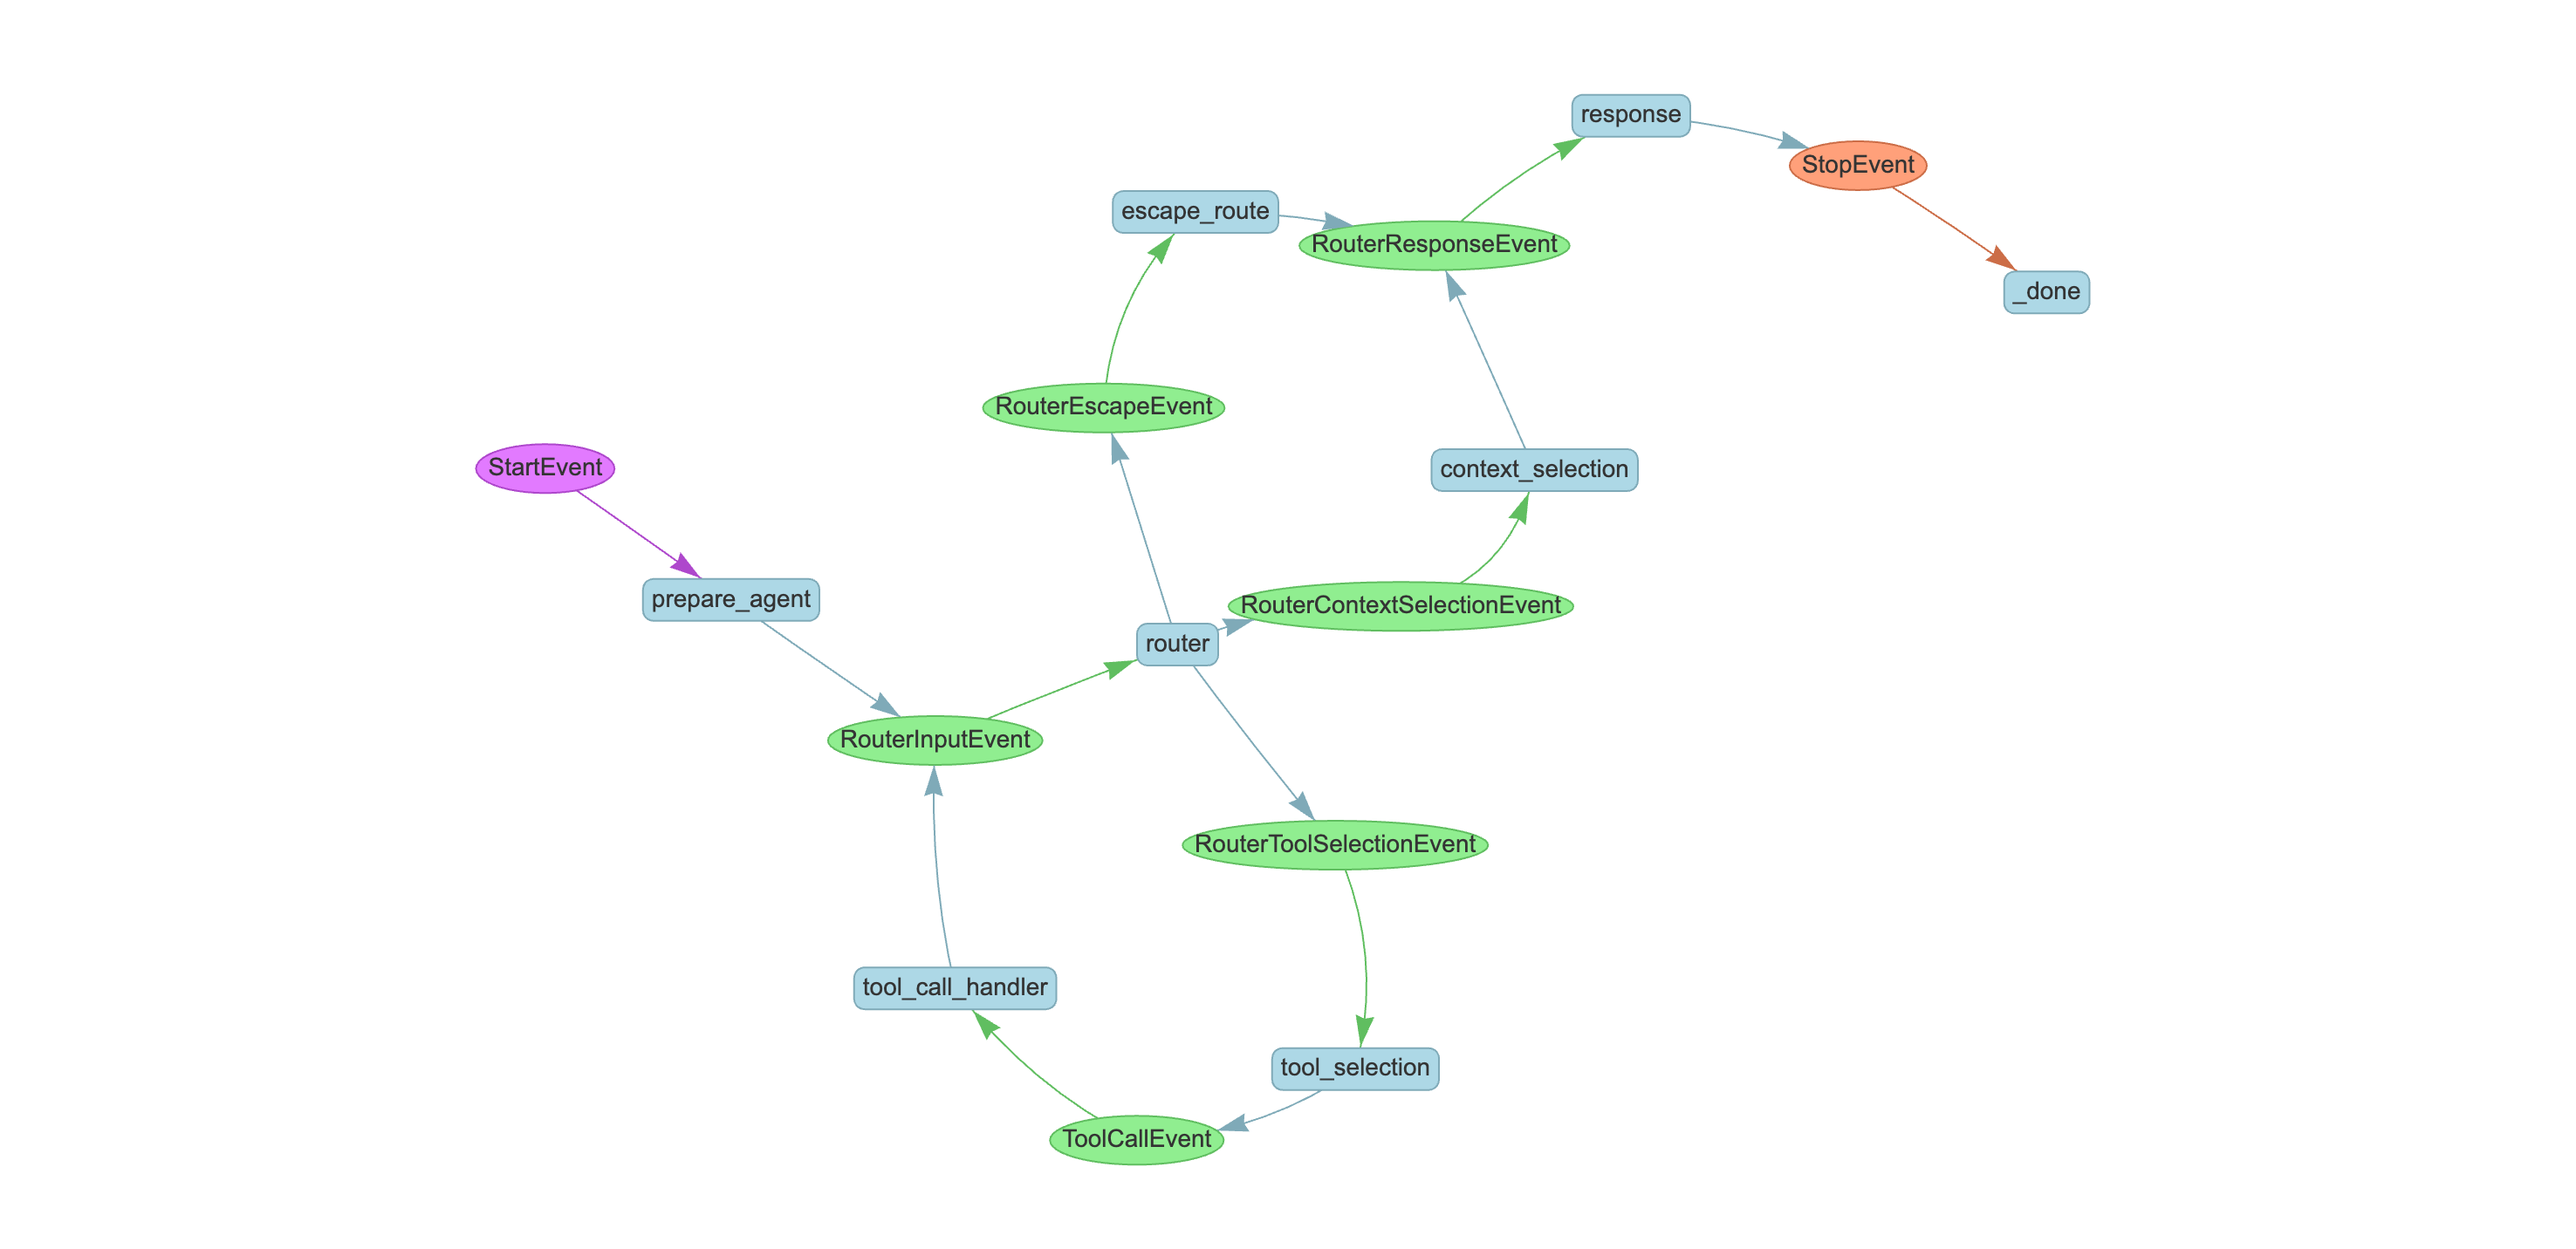
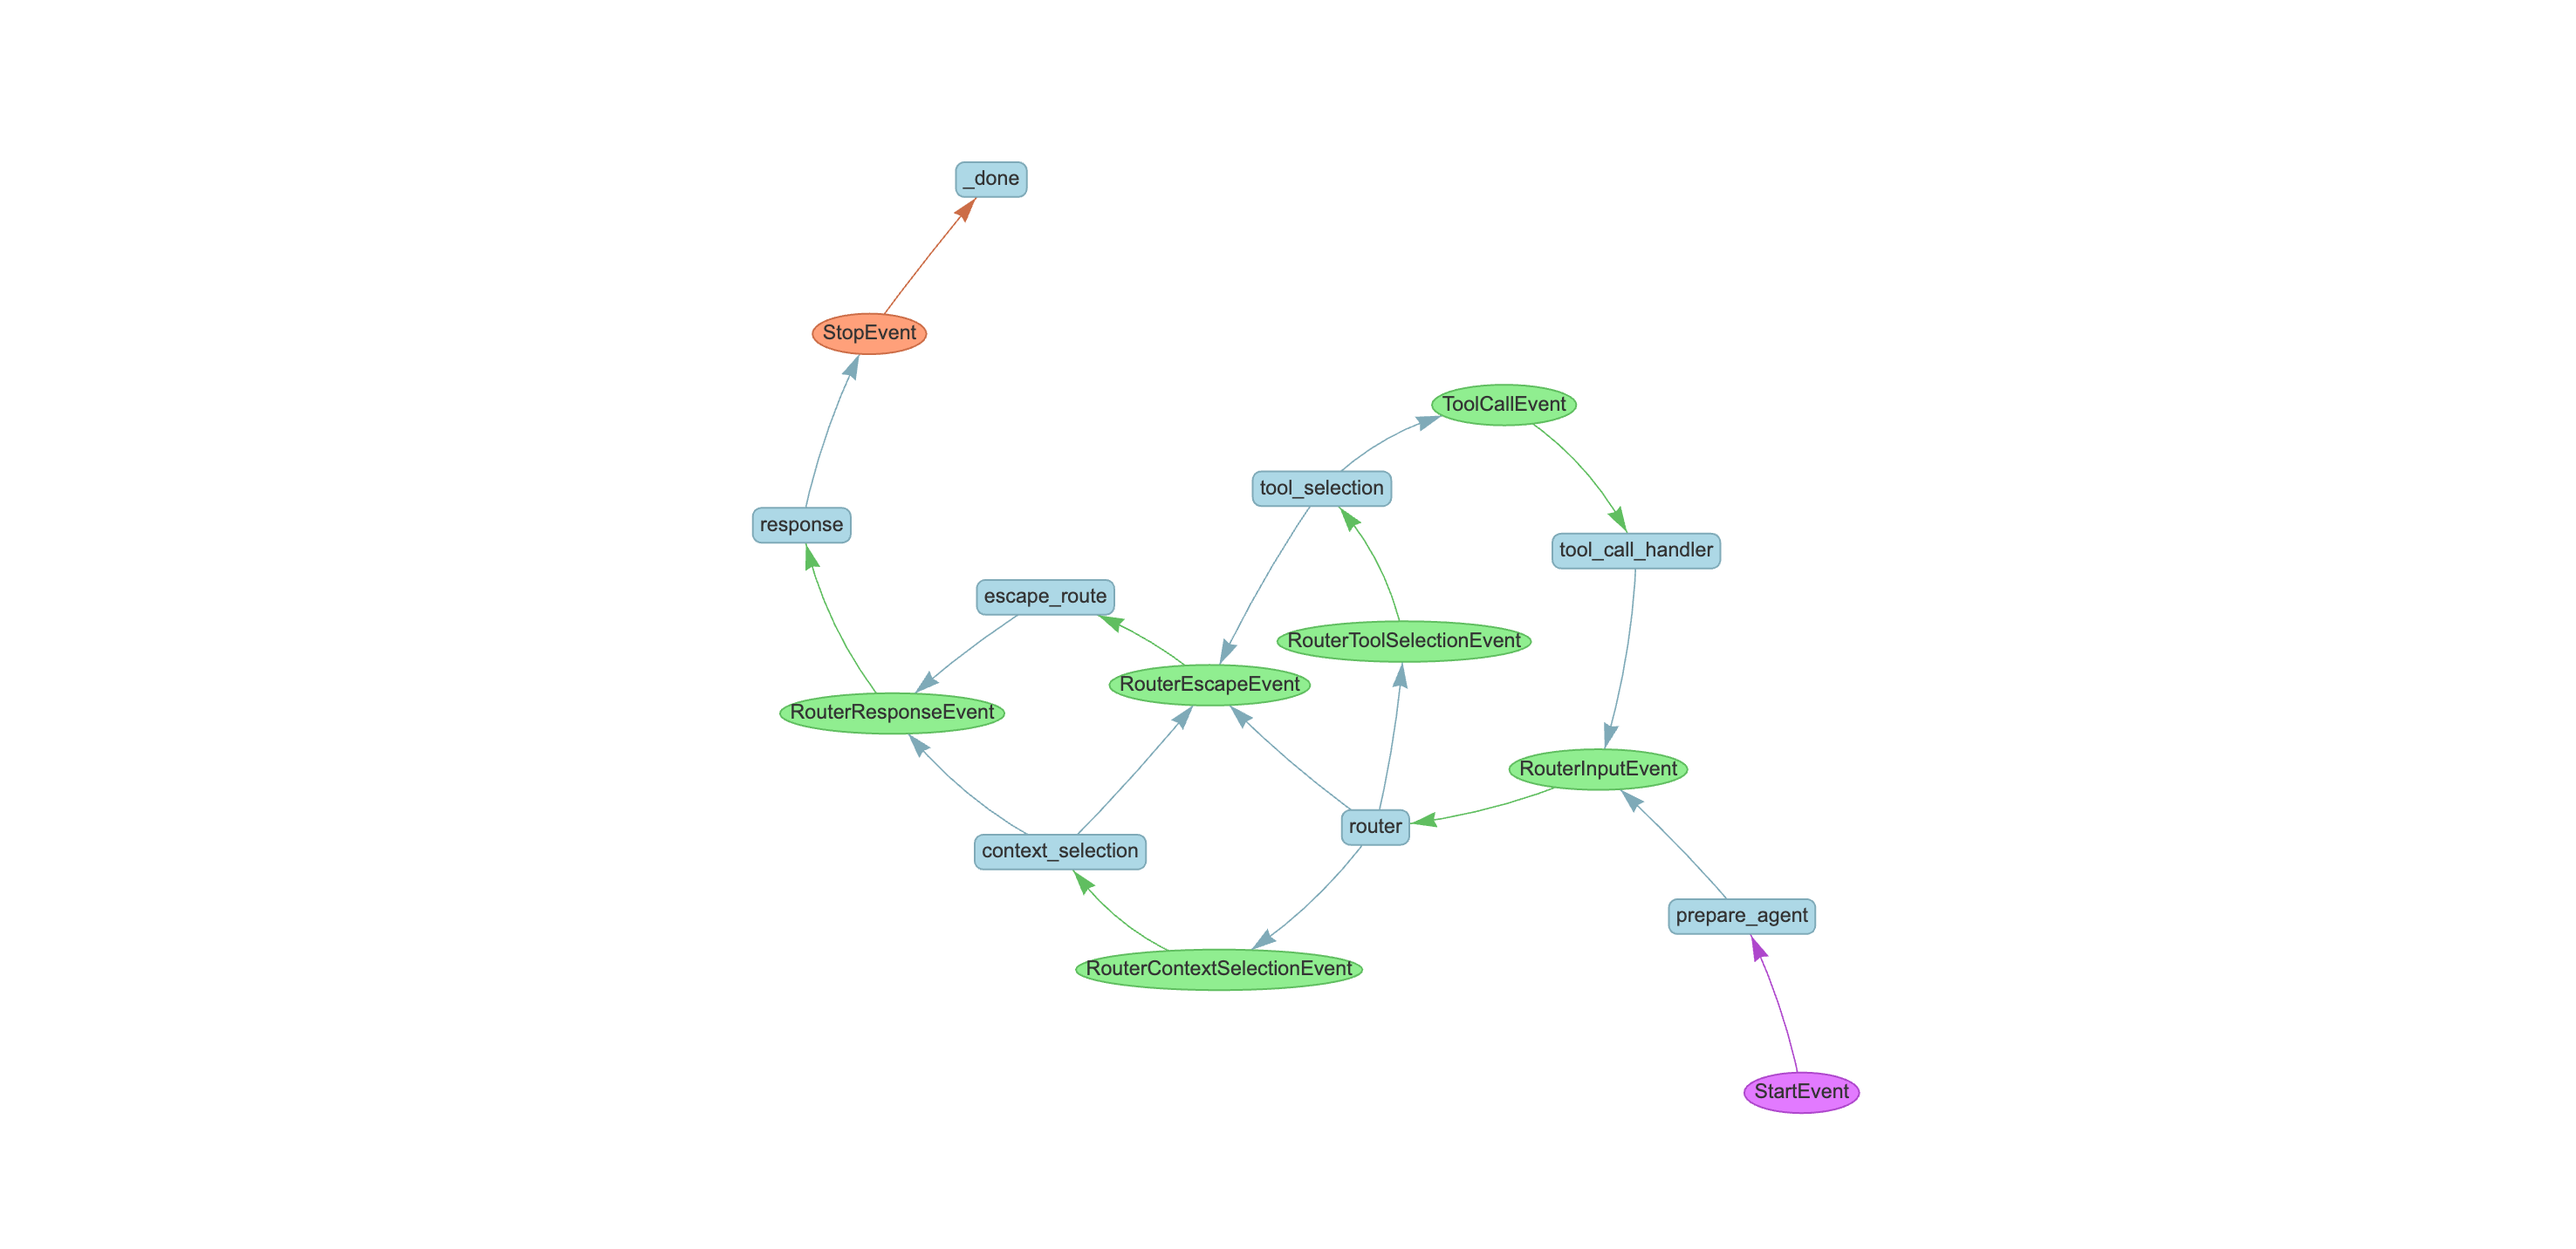
chore: workflow diagram

diff --git a/basic_workflow.html b/basic_workflow.html
@@ -89,7 +89,7 @@
 
                   // parsing and collecting nodes and edges from the python
                   nodes = new vis.DataSet([{"color": "#FFA07A", "id": "StopEvent", "label": "StopEvent", "shape": "ellipse"}, {"color": "#ADD8E6", "id": "_done", "label": "_done", "shape": "box"}, {"color": "#ADD8E6", "id": "context_selection", "label": "context_selection", "shape": "box"}, {"color": "#90EE90", "id": "RouterContextSelectionEvent", "label": "RouterContextSelectionEvent", "shape": "ellipse"}, {"color": "#ADD8E6", "id": "escape_route", "label": "escape_route", "shape": "box"}, {"color": "#90EE90", "id": "RouterEscapeEvent", "label": "RouterEscapeEvent", "shape": "ellipse"}, {"color": "#ADD8E6", "id": "prepare_agent", "label": "prepare_agent", "shape": "box"}, {"color": "#E27AFF", "id": "StartEvent", "label": "StartEvent", "shape": "ellipse"}, {"color": "#ADD8E6", "id": "response", "label": "response", "shape": "box"}, {"color": "#90EE90", "id": "RouterResponseEvent", "label": "RouterResponseEvent", "shape": "ellipse"}, {"color": "#ADD8E6", "id": "router", "label": "router", "shape": "box"}, {"color": "#90EE90", "id": "RouterInputEvent", "label": "RouterInputEvent", "shape": "ellipse"}, {"color": "#ADD8E6", "id": "tool_call_handler", "label": "tool_call_handler", "shape": "box"}, {"color": "#90EE90", "id": "ToolCallEvent", "label": "ToolCallEvent", "shape": "ellipse"}, {"color": "#ADD8E6", "id": "tool_selection", "label": "tool_selection", "shape": "box"}, {"color": "#90EE90", "id": "RouterToolSelectionEvent", "label": "RouterToolSelectionEvent", "shape": "ellipse"}]);
-                  edges = new vis.DataSet([{"arrows": "to", "from": "StopEvent", "to": "_done"}, {"arrows": "to", "from": "context_selection", "to": "RouterResponseEvent"}, {"arrows": "to", "from": "RouterContextSelectionEvent", "to": "context_selection"}, {"arrows": "to", "from": "escape_route", "to": "RouterResponseEvent"}, {"arrows": "to", "from": "RouterEscapeEvent", "to": "escape_route"}, {"arrows": "to", "from": "prepare_agent", "to": "RouterInputEvent"}, {"arrows": "to", "from": "StartEvent", "to": "prepare_agent"}, {"arrows": "to", "from": "response", "to": "StopEvent"}, {"arrows": "to", "from": "RouterResponseEvent", "to": "response"}, {"arrows": "to", "from": "router", "to": "RouterContextSelectionEvent"}, {"arrows": "to", "from": "router", "to": "RouterEscapeEvent"}, {"arrows": "to", "from": "router", "to": "RouterToolSelectionEvent"}, {"arrows": "to", "from": "RouterInputEvent", "to": "router"}, {"arrows": "to", "from": "tool_call_handler", "to": "RouterInputEvent"}, {"arrows": "to", "from": "ToolCallEvent", "to": "tool_call_handler"}, {"arrows": "to", "from": "tool_selection", "to": "ToolCallEvent"}, {"arrows": "to", "from": "RouterToolSelectionEvent", "to": "tool_selection"}]);
+                  edges = new vis.DataSet([{"arrows": "to", "from": "StopEvent", "to": "_done"}, {"arrows": "to", "from": "context_selection", "to": "RouterResponseEvent"}, {"arrows": "to", "from": "context_selection", "to": "RouterEscapeEvent"}, {"arrows": "to", "from": "RouterContextSelectionEvent", "to": "context_selection"}, {"arrows": "to", "from": "escape_route", "to": "RouterResponseEvent"}, {"arrows": "to", "from": "RouterEscapeEvent", "to": "escape_route"}, {"arrows": "to", "from": "prepare_agent", "to": "RouterInputEvent"}, {"arrows": "to", "from": "StartEvent", "to": "prepare_agent"}, {"arrows": "to", "from": "response", "to": "StopEvent"}, {"arrows": "to", "from": "RouterResponseEvent", "to": "response"}, {"arrows": "to", "from": "router", "to": "RouterContextSelectionEvent"}, {"arrows": "to", "from": "router", "to": "RouterEscapeEvent"}, {"arrows": "to", "from": "router", "to": "RouterToolSelectionEvent"}, {"arrows": "to", "from": "RouterInputEvent", "to": "router"}, {"arrows": "to", "from": "tool_call_handler", "to": "RouterInputEvent"}, {"arrows": "to", "from": "ToolCallEvent", "to": "tool_call_handler"}, {"arrows": "to", "from": "tool_selection", "to": "ToolCallEvent"}, {"arrows": "to", "from": "tool_selection", "to": "RouterEscapeEvent"}, {"arrows": "to", "from": "RouterToolSelectionEvent", "to": "tool_selection"}]);
 
                   nodeColors = {};
                   allNodes = nodes.get({ returnType: "Object" });
